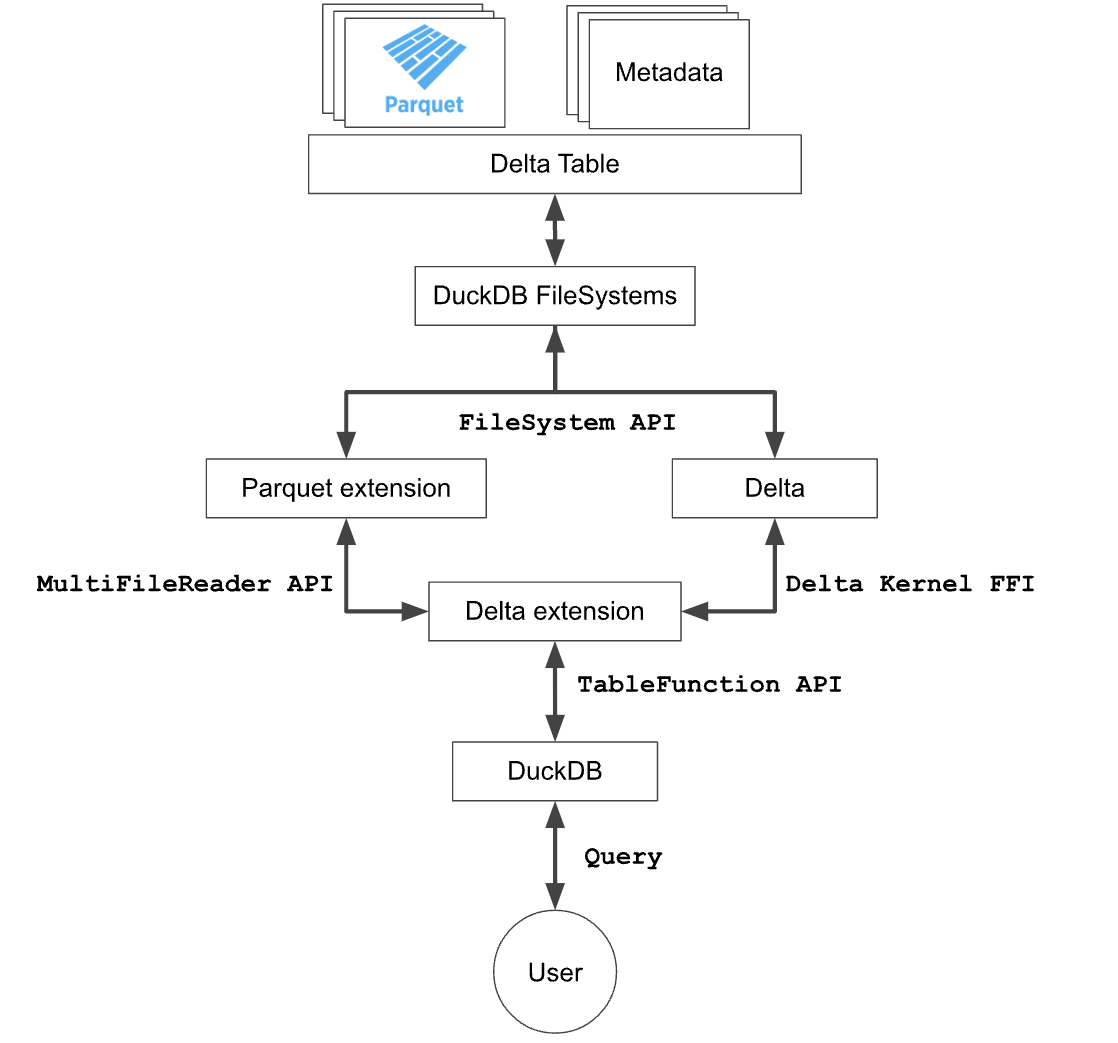
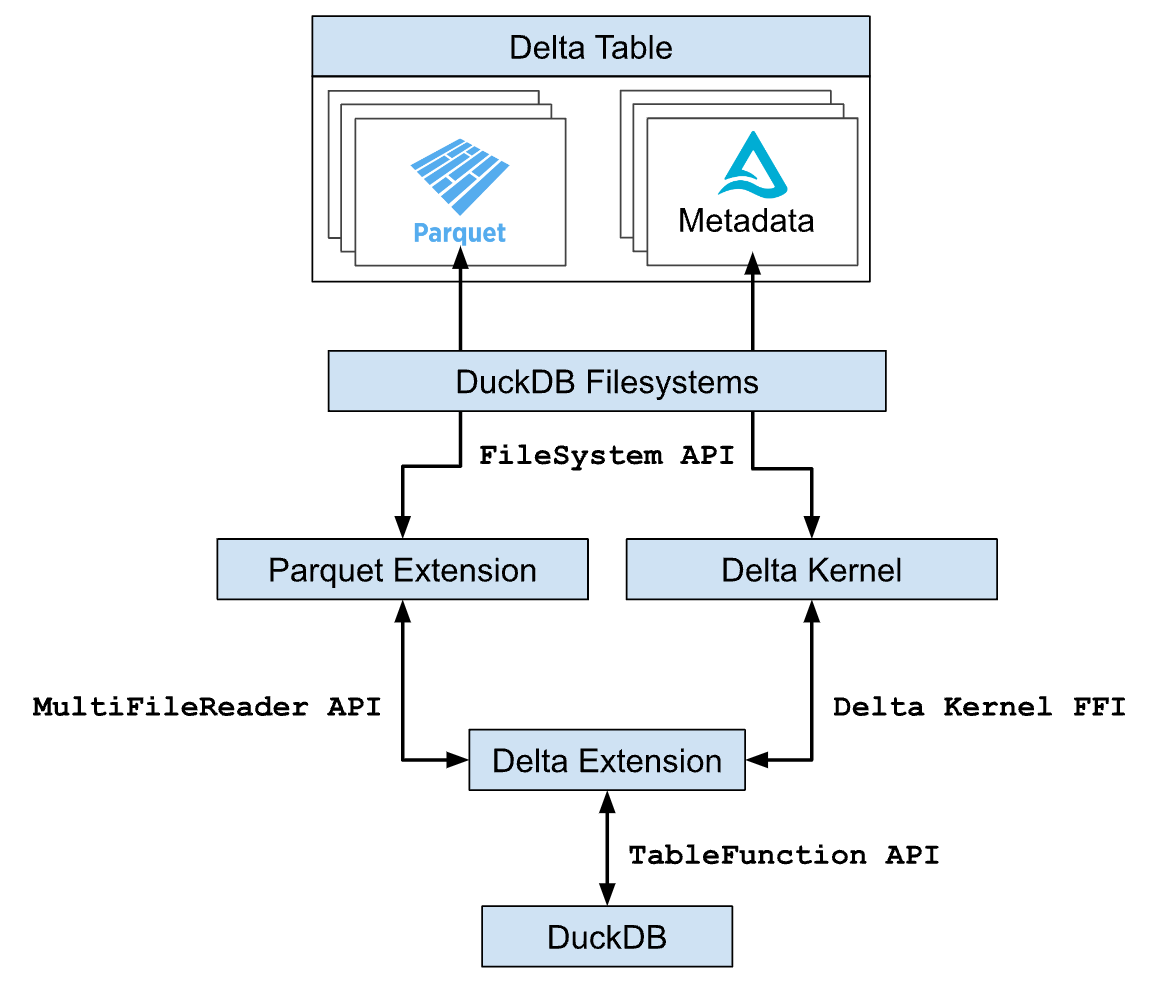
process comments from alex

diff --git a/_posts/2024-06-10-delta.md b/_posts/2024-06-10-delta.md
@@ -152,7 +152,6 @@ an [excellent Parquet reader](/docs/data/parquet/overview). Also, DuckDB already
 `delta-rs` for DuckDB's Delta extension this would actually run into a variety of problems:
 
 - increased extension binary size
-- decreased reliability due to bugs and unexpected behaviour
 - inconsistent user experience between `delta_scan` and `read_parquet`
 - increased maintenance load
 
@@ -209,6 +208,10 @@ any IO, it will call into DuckDB using the `FileSystem` API to handle the I/O. T
     alt="Diagram showing operation of delta_scan"
     width="700px" />
 </div>
+
+In this Diagram, we can see all 4 components involved in the processing of query containing a `delta_scan` table function. The arrows represent the communication that occurs
+between the components across the 4 APIs. Now when reading a Delta Table, we can see that the Metadata is handled on the right side going through the Delta Kernel. On the left side
+we can see how the Parquet data flows through the Parquet extension.
 
 While there are obviously some important details missing here, such as the handling of deletion vectors and column mappings, we have now covered the basic concept of the DuckDB
 Delta extension. Also, we have demonstrated how the current implementation achieves a very natural logical separation, with component internals being abstracted away by connecting
